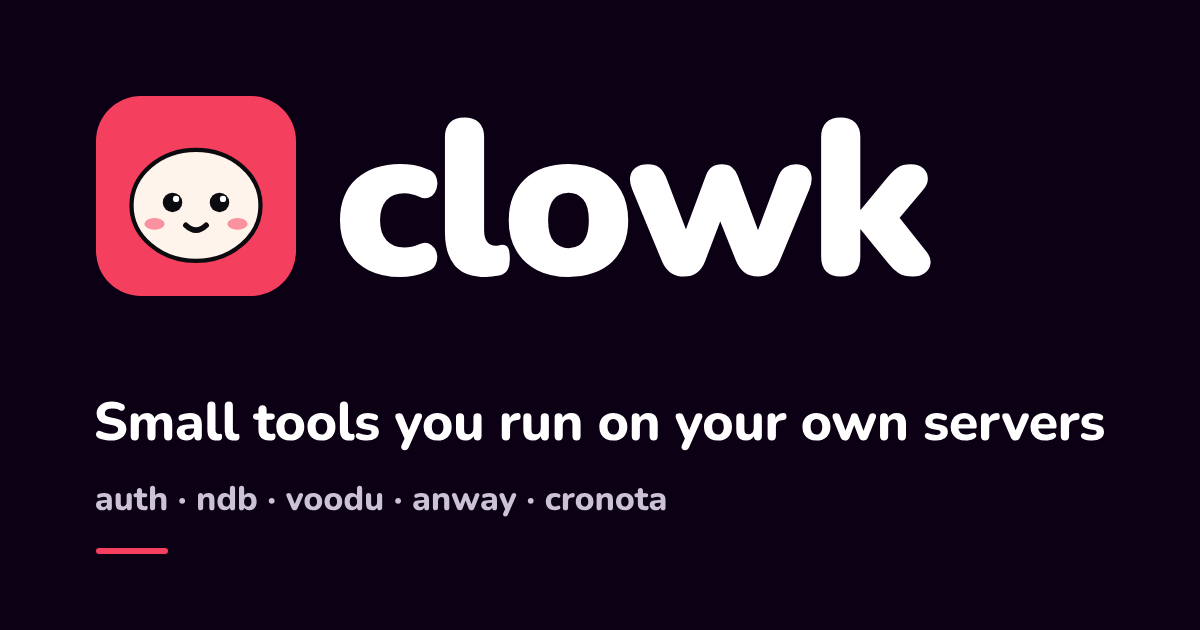
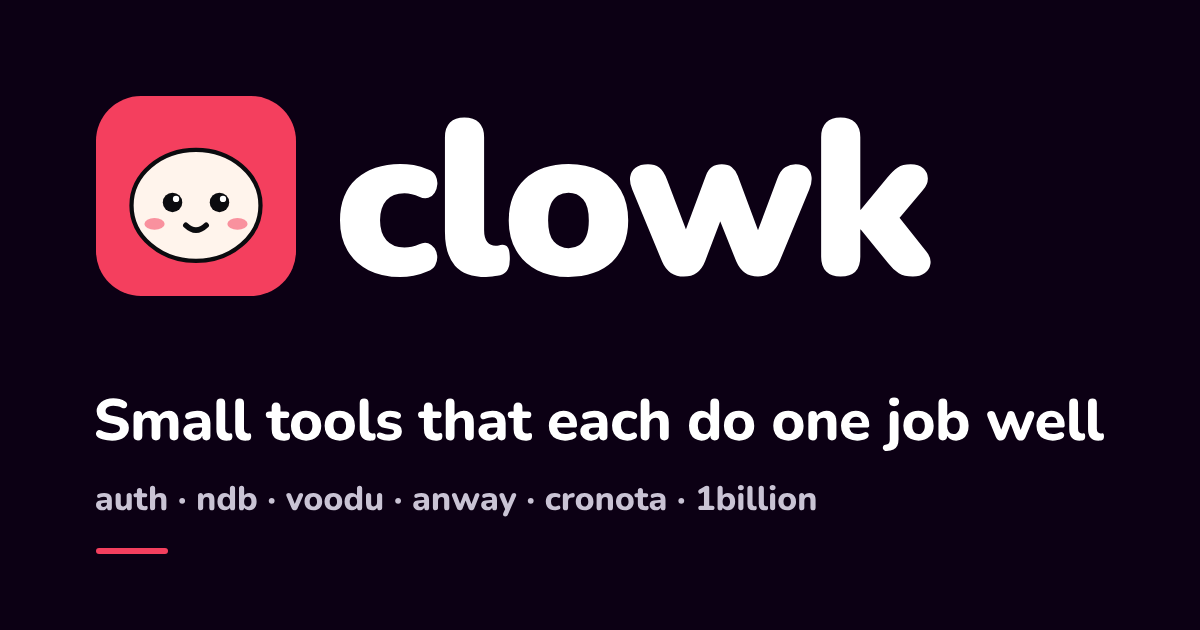
feat(seo): fix metadata, share images, structured data and the sitemap
Product titles and descriptions fit the search result limits. The home
page and the docs get share images, and the share image says the current
tagline. Doc titles name Clowk auth, doc pages carry TechArticle and
breadcrumb data, free products declare an offer, the 404 page is not
indexed and the sitemap has a last modified date per page.

Changed region(s): [[0.0617, 0.6333, 0.925, 0.7238], [0.5858, 0.754, 0.6783, 0.8143]]

diff --git a/lib/products.pt-br.ts b/lib/products.pt-br.ts
@@ -6,7 +6,7 @@ export const ptBr: Record<string, ProductText> = {
   auth: {
     seoTitle: 'auth by Clowk — broker de autenticação para qualquer stack',
     seoDescription:
-      'O Clowk faz o fluxo OAuth com Google, GitHub, X e Apple e devolve um JWT assinado. Sem UI embutida, sem cobrança por MAU. SDKs para React, Next.js, Express, Hono e Rails.',
+      'O Clowk faz o OAuth com Google, GitHub, X e Apple e devolve um JWT assinado. Sem UI embutida, sem cobrança por MAU. SDKs para React, Next.js, Express e Rails.',
     tagline: 'Broker, não provedor. Login que fica fora da sua UI.',
     summary:
       'O Clowk faz o fluxo OAuth com Google, GitHub, X e Apple e entrega um JWT assinado ao seu app. Seu app mantém as próprias telas.',
@@ -79,9 +79,9 @@ end`,
   },
 
   ndb: {
-    seoTitle: 'ndb — a API do Elasticsearch e os filtros do MongoDB sobre NDJSON puro',
+    seoTitle: 'ndb — API do Elasticsearch e filtros do MongoDB em NDJSON',
     seoDescription:
-      'O ndb roda rotas do Elasticsearch e filtros do MongoDB sobre NDJSON puro. Um binário Go, sem JVM, sem cluster, sem schema. SDKs para Go, Ruby, Rails e TypeScript.',
+      'O ndb roda rotas do Elasticsearch e filtros do MongoDB sobre NDJSON. Um binário Go, sem JVM, sem cluster, sem schema. SDKs para Go, Ruby, Rails e TypeScript.',
     tagline: 'A API do Elasticsearch. Os filtros do MongoDB. Um binário Go.',
     summary:
       'O ndb roda as rotas que você conhece do Elasticsearch e a linguagem de consulta que você conhece do MongoDB sobre NDJSON puro. Um daemon, um diretório de dados. Sem JVM, sem cluster, sem schema.',
@@ -140,7 +140,7 @@ end`,
   voodu: {
     seoTitle: 'voodu — PaaS self-hosted com um arquivo HCL e um voodu apply',
     seoDescription:
-      'O voodu é um PaaS self-hosted no estilo Heroku. Um arquivo HCL descreve apps, ingress com TLS e serviços com estado. O voodu apply faz build, envia, roteia e troca a versão por SSH.',
+      'O voodu é um PaaS self-hosted no estilo Heroku. Um arquivo HCL descreve apps, ingress com TLS e serviços com estado; um comando faz o deploy por SSH.',
     tagline: 'PaaS self-hosted. Um arquivo HCL. Um voodu apply.',
     summary:
       'Deploys no estilo Heroku nos seus próprios servidores. A CLI envia o build por SSH: sem commit, sem push, sem bare repo.',
@@ -204,9 +204,9 @@ ingress "acme" "web" {
   },
 
   anway: {
-    seoTitle: 'anway — background jobs para qualquer linguagem, um binário, sem Redis',
+    seoTitle: 'anway — background jobs para qualquer linguagem, sem Redis',
     seoDescription:
-      'O anway é um servidor de background jobs para qualquer linguagem. Um binário com armazenamento em disco embutido, sem Redis. Envie um job do Rails e rode em Go.',
+      'O anway é um servidor de background jobs para qualquer linguagem. Um binário com armazenamento em disco, sem Redis. Envie um job do Rails e rode em Go.',
     tagline: 'Background jobs para qualquer linguagem. Um binário, sem Redis.',
     summary: 'Um app Rails envia email.send, e um worker Go executa. O armazenamento fica em disco, dentro do binário.',
     bullets: [
@@ -278,7 +278,7 @@ return worker.Run(ctx)`,
   '1billion': {
     seoTitle: '1billion — email transacional com servidor de email próprio',
     seoDescription:
-      'O 1billion é o email transacional da Clowk, com servidor de email próprio, DKIM e uma API HTTP. Em desenvolvimento: roda primeiro dentro dos apps da Clowk e abre ao público depois.',
+      'O 1billion é o email transacional da Clowk, com servidor de email próprio, DKIM e API HTTP. Em desenvolvimento: roda primeiro dentro dos apps da Clowk.',
     tagline: 'Email transacional com servidor de email próprio.',
     summary:
       'Envie email do seu app com uma chamada HTTP. O 1billion coloca na fila, assina com DKIM e entrega por SMTP do próprio servidor.',

diff --git a/lib/products.ts b/lib/products.ts
@@ -39,7 +39,7 @@ export const products: Product[] = [
     markFill: true,
     seoTitle: 'auth by Clowk — authentication broker for every stack',
     seoDescription:
-      'Clowk runs the OAuth dance with Google, GitHub, X and Apple and returns a signed JWT. No embedded UI, no per-MAU billing. SDKs for React, Next.js, Express, Hono and Rails.',
+      'Clowk runs OAuth with Google, GitHub, X and Apple and returns a signed JWT. No embedded UI, no per-MAU billing. SDKs for React, Next.js, Express, Hono, Rails.',
     tagline: 'Broker, not provider. Sign-in that stays out of your UI.',
     summary:
       'Clowk runs the OAuth dance with Google, GitHub, X and Apple, and hands your app a signed JWT. Your app keeps its own screens.',
@@ -122,7 +122,7 @@ end`,
     hosting: 'self',
     name: 'ndb',
     mark: '/products/ndb.svg',
-    seoTitle: 'ndb — the Elasticsearch API and MongoDB filters on plain NDJSON',
+    seoTitle: 'ndb — Elasticsearch API and MongoDB filters on NDJSON',
     seoDescription:
       'ndb runs Elasticsearch routes and MongoDB filters on plain NDJSON. One Go binary, no JVM, no cluster, no schema. SDKs for Go, Ruby, Rails and TypeScript.',
     tagline: 'The API of Elasticsearch. The filters of MongoDB. One Go binary.',
@@ -189,9 +189,9 @@ end`,
     hosting: 'self',
     name: 'voodu',
     mark: '/products/voodu.svg',
-    seoTitle: 'voodu — self-hosted PaaS with one HCL file and one voodu apply',
+    seoTitle: 'voodu — self-hosted PaaS, one HCL file, one command',
     seoDescription:
-      'voodu is a self-hosted, Heroku-shaped PaaS. One HCL file describes apps, ingress with TLS and stateful services. voodu apply builds, ships, routes and swaps over SSH.',
+      'voodu is a self-hosted, Heroku-shaped PaaS. One HCL file describes apps, TLS ingress and stateful services; one command builds and ships them over SSH.',
     tagline: 'Self-hosted PaaS. One HCL file. One voodu apply.',
     summary:
       'Heroku-shaped deploys on your own boxes. The CLI streams the build over SSH: no commit, no push, no bare repo.',
@@ -264,7 +264,7 @@ ingress "acme" "web" {
     hosting: 'self',
     name: 'anway',
     mark: '/products/anway.svg',
-    seoTitle: 'anway — background jobs for any language, one binary, no Redis',
+    seoTitle: 'anway — background jobs for any language, no Redis',
     seoDescription:
       'anway is a language-agnostic background job server. One binary with embedded disk storage, no Redis. Push a job from Rails and run it in Go.',
     tagline: 'Background jobs for any language. One binary, no Redis.',
@@ -317,7 +317,7 @@ return worker.Run(ctx)`,
     hosting: 'hosted',
     name: 'cronota',
     mark: '/products/cronota.svg',
-    seoTitle: 'cronota — emit NFS-e on a schedule through the Emissor Nacional',
+    seoTitle: 'cronota — scheduled NFS-e through the Emissor Nacional',
     seoDescription:
       'cronota emits NFS-e through the Emissor Nacional: one-off notes, templates and recurring schedules with approval. A1 certificate encrypted and audited.',
     tagline: 'NFS-e on a schedule, through the Emissor Nacional.',
@@ -354,7 +354,7 @@ return worker.Run(ctx)`,
     mark: '/products/1billion.svg',
     seoTitle: '1billion — transactional email with our own mail server',
     seoDescription:
-      '1billion is transactional email from Clowk, with its own mail server, DKIM and an HTTP API. In development: it runs inside the Clowk apps first and opens to the public later.',
+      '1billion is transactional email from Clowk, with its own mail server, DKIM and an HTTP API. In development: it runs inside the Clowk apps first.',
     tagline: 'Transactional email with our own mail server.',
     summary:
       'Send email from your app with one HTTP call. 1billion queues it, signs it with DKIM and delivers it over SMTP from its own server.',

diff --git a/components/pages/DocsArticle.tsx b/components/pages/DocsArticle.tsx
@@ -2,11 +2,15 @@ import { DocsBody, DocsDescription, DocsPage, DocsTitle } from 'fumadocs-ui/layo
 import { createRelativeLink } from 'fumadocs-ui/mdx';
 import type { Metadata } from 'next';
 import { notFound } from 'next/navigation';
+import JsonLd from '@/components/JsonLd';
 import { getMDXComponents } from '@/components/mdx';
 import { localePath, t, type Locale } from '@/lib/i18n';
+import { SITE_URL } from '@/lib/products';
 import { source } from '@/lib/source';
 
 type Params = Promise<{ slug?: string[] }>;
+
+const DOCS_IMAGE = { url: '/og/auth.png?v=2', width: 1200, height: 630, alt: 'Clowk auth' };
 
 export async function DocsArticle({ params, locale }: { params: Params; locale: Locale }) {
   const page = source.getPage((await params).slug, locale);
@@ -14,9 +18,35 @@ export async function DocsArticle({ params, locale }: { params: Params; locale: 
   if (!page) notFound();
 
   const MDX = page.data.body;
+  const url = `${SITE_URL}${page.url}/`;
+  const docsHome = `${SITE_URL}${localePath(locale, '/docs')}/`;
+
+  const data = {
+    '@context': 'https://schema.org',
+    '@graph': [
+      {
+        '@type': 'TechArticle',
+        headline: page.data.title,
+        description: page.data.description,
+        url,
+        inLanguage: t(locale).htmlLang,
+        about: 'Clowk auth',
+        publisher: { '@type': 'Organization', name: 'Clowk', url: SITE_URL },
+      },
+      {
+        '@type': 'BreadcrumbList',
+        itemListElement: [
+          { '@type': 'ListItem', position: 1, name: 'Clowk', item: SITE_URL },
+          { '@type': 'ListItem', position: 2, name: 'Docs', item: docsHome },
+          { '@type': 'ListItem', position: 3, name: page.data.title, item: url },
+        ],
+      },
+    ],
+  };
 
   return (
     <DocsPage toc={page.data.toc} full={page.data.full} tableOfContent={{ style: 'clerk' }} breadcrumb={{ enabled: false }}>
+      <JsonLd data={data} />
       <DocsTitle>{page.data.title}</DocsTitle>
       <DocsDescription>{page.data.description}</DocsDescription>
 
@@ -39,7 +69,7 @@ export async function docsMetadata(params: Params, locale: Locale): Promise<Meta
   const english = source.getPage(page.slugs, 'en');
   const path = `${english?.url ?? page.url}/`;
   const url = `${page.url}/`;
-  const title = `${page.data.title} | Clowk`;
+  const title = page.slugs.length ? `${page.data.title} · ${t(locale).docs.titleSuffix}` : t(locale).docs.titleSuffix;
   const description = page.data.description;
 
   return {
@@ -49,7 +79,7 @@ export async function docsMetadata(params: Params, locale: Locale): Promise<Meta
       canonical: url,
       languages: { en: path, 'pt-BR': localePath('pt-br', path), 'x-default': path },
     },
-    openGraph: { title, description, url, type: 'article', siteName: 'Clowk', locale: t(locale).ogLocale },
-    twitter: { card: 'summary_large_image', title, description },
+    openGraph: { title, description, url, type: 'article', siteName: 'Clowk', locale: t(locale).ogLocale, images: [DOCS_IMAGE] },
+    twitter: { card: 'summary_large_image', title, description, images: [DOCS_IMAGE.url] },
   };
 }

diff --git a/app/sitemap.ts b/app/sitemap.ts
@@ -1,3 +1,4 @@
+import { execFileSync } from 'node:child_process';
 import type { MetadataRoute } from 'next';
 import { localePath, locales } from '@/lib/i18n';
 import { products, SITE_URL } from '@/lib/products';
@@ -7,11 +8,23 @@ export const dynamic = 'force-static';
 
 type Entry = MetadataRoute.Sitemap[number];
 
-function entries(path: string, priority: number, changeFrequency: Entry['changeFrequency']): Entry[] {
+/** The date of the last commit that touched these files, or now when git has no answer. */
+function lastModified(...files: string[]) {
+  try {
+    const date = execFileSync('git', ['log', '-1', '--format=%cI', '--', ...files], { encoding: 'utf8' }).trim();
+
+    return date ? new Date(date) : new Date();
+  } catch {
+    return new Date();
+  }
+}
+
+function entries(path: string, priority: number, changeFrequency: Entry['changeFrequency'], modified: Date): Entry[] {
   const languages = { en: `${SITE_URL}${path}`, 'pt-BR': `${SITE_URL}${localePath('pt-br', path)}` };
 
   return locales.map(locale => ({
     url: `${SITE_URL}${localePath(locale, path)}`,
+    lastModified: modified,
     changeFrequency,
     priority,
     alternates: { languages },
@@ -19,8 +32,16 @@ function entries(path: string, priority: number, changeFrequency: Entry['changeF
 }
 
 export default function sitemap(): MetadataRoute.Sitemap {
-  const pages = products.flatMap(product => entries(`/${product.slug}/`, 0.9, 'weekly'));
-  const docs = source.getPages('en').flatMap(page => entries(`${page.url}/`, 0.5, 'monthly'));
+  const site = lastModified('lib', 'components', 'app');
 
-  return [...entries('/', 1, 'weekly'), ...entries('/terms/', 0.3, 'yearly'), ...pages, ...docs];
+  const pages = products.flatMap(product => entries(`/${product.slug}/`, 0.9, 'weekly', site));
+
+  const docs = source.getPages('en').flatMap(page => {
+    const file = `content/docs/${page.path}`;
+    const translated = file.replace(/\.mdx$/, '.pt-br.mdx');
+
+    return entries(`${page.url}/`, 0.6, 'monthly', lastModified(file, translated));
+  });
+
+  return [...entries('/', 1, 'weekly', site), ...entries('/terms/', 0.3, 'yearly', lastModified('components/terms')), ...pages, ...docs];
 }

diff --git a/lib/i18n/pt-br.ts b/lib/i18n/pt-br.ts
@@ -10,7 +10,7 @@ export const ptBr: Dictionary = {
   site: {
     title: 'Clowk — Ferramentas pequenas que fazem uma coisa bem feita',
     description:
-      'A Clowk faz ferramentas pequenas: auth para login, ndb para busca em NDJSON, voodu para deploys, anway para jobs em background, cronota para NFS-e e 1billion para email.',
+      'A Clowk faz ferramentas pequenas: auth para login, ndb para busca em NDJSON, voodu para deploys, anway para jobs, cronota para NFS-e e 1billion para email.',
   },
 
   nav: {
@@ -135,6 +135,7 @@ export const ptBr: Dictionary = {
   },
 
   docs: {
+    titleSuffix: 'Docs do Clowk auth',
     menu: 'Menu',
     openSidebar: 'Abrir menu lateral',
     closeSidebar: 'Fechar menu lateral',
@@ -149,6 +150,6 @@ export const ptBr: Dictionary = {
 
   terms: {
     title: 'Termos de Serviço — Clowk',
-    description: 'Termos de serviço da Clowk, política de uso aceitável e informações legais.',
+    description: 'Os termos de serviço da Clowk: o que o serviço auth faz, sua conta, uso aceitável, proteção de dados, pagamentos e as informações legais.',
   },
 };

diff --git a/components/pages/HomePage.tsx b/components/pages/HomePage.tsx
@@ -10,6 +10,8 @@ import { alternates, localePath, t, type Locale } from '@/lib/i18n';
 import { SITE_URL } from '@/lib/products';
 import { localizedProducts } from '@/lib/localized';
 
+const OG_IMAGE = { url: '/og-image.png?v=3', width: 1200, height: 630, alt: 'Clowk' };
+
 export function homeMetadata(locale: Locale): Metadata {
   const { title, description } = t(locale).site;
 
@@ -17,8 +19,8 @@ export function homeMetadata(locale: Locale): Metadata {
     title: { absolute: title },
     description,
     alternates: alternates(locale, '/'),
-    openGraph: { title, description, url: localePath(locale, '/'), locale: t(locale).ogLocale },
-    twitter: { title, description },
+    openGraph: { title, description, url: localePath(locale, '/'), locale: t(locale).ogLocale, type: 'website', images: [OG_IMAGE] },
+    twitter: { card: 'summary_large_image', title, description, images: [OG_IMAGE.url] },
   };
 }
 

diff --git a/components/pages/TermsPage.tsx b/components/pages/TermsPage.tsx
@@ -3,12 +3,17 @@ import Footer from '@/components/Footer';
 import Header from '@/components/Header';
 import TermsEn from '@/components/terms/TermsEn';
 import TermsPt from '@/components/terms/TermsPt';
-import { alternates, t, type Locale } from '@/lib/i18n';
+import { alternates, localePath, t, type Locale } from '@/lib/i18n';
 
 export function termsMetadata(locale: Locale): Metadata {
   const { title, description } = t(locale).terms;
 
-  return { title: { absolute: title }, description, alternates: alternates(locale, '/terms/') };
+  return {
+    title: { absolute: title },
+    description,
+    alternates: alternates(locale, '/terms/'),
+    openGraph: { title, description, url: localePath(locale, '/terms/'), locale: t(locale).ogLocale },
+  };
 }
 
 export default function TermsPage({ locale }: { locale: Locale }) {

diff --git a/components/product/ProductPage.tsx b/components/product/ProductPage.tsx
@@ -179,6 +179,10 @@ function docsCta(product: Product, locale: Locale) {
   return `${text.readDocs} ${product.docsUrl.startsWith('/') ? '→' : '↗'}`;
 }
 
+function isFree(product: Product) {
+  return product.hosting === 'self' || product.slug === 'auth';
+}
+
 function structuredData(product: Product, locale: Locale) {
   const url = `${SITE_URL}${localePath(locale, `/${product.slug}`)}`;
 
@@ -194,6 +198,7 @@ function structuredData(product: Product, locale: Locale) {
         applicationCategory: product.category,
         operatingSystem: product.platform ?? 'Linux, macOS',
         publisher: { '@type': 'Organization', name: 'Clowk', url: SITE_URL },
+        ...(isFree(product) && { offers: { '@type': 'Offer', price: '0', priceCurrency: 'USD' } }),
       },
       {
         '@type': 'FAQPage',

diff --git a/lib/i18n/en.ts b/lib/i18n/en.ts
@@ -133,6 +133,7 @@ export const en = {
   },
 
   docs: {
+    titleSuffix: 'Clowk auth docs',
     menu: 'Menu',
     openSidebar: 'Open sidebar',
     closeSidebar: 'Close sidebar',
@@ -147,7 +148,7 @@ export const en = {
 
   terms: {
     title: 'Terms of Service — Clowk',
-    description: 'Clowk terms of service, acceptable use policy, and legal information.',
+    description: 'The Clowk terms of service: what the auth service does, your account, acceptable use, data protection, payments and the legal information.',
   },
 };
 

diff --git a/app/not-found.tsx b/app/not-found.tsx
@@ -1,5 +1,8 @@
+import type { Metadata } from 'next';
 import Image from 'next/image';
 import Link from 'next/link';
+
+export const metadata: Metadata = { title: 'Page not found', robots: { index: false, follow: true } };
 
 export default function NotFound() {
   return (

diff --git a/app/layout.tsx b/app/layout.tsx
@@ -9,7 +9,7 @@ const dmSans = DM_Sans({
 });
 
 const SITE_URL = 'https://clowk.in';
-const OG_IMAGE = `${SITE_URL}/og-image.png?v=2`;
+const OG_IMAGE = `${SITE_URL}/og-image.png?v=3`;
 
 const TITLE = 'Clowk — Small tools that each do one job well';
 const DESCRIPTION =

diff --git a/brand/tools/outline_wordmark.py b/brand/tools/outline_wordmark.py
@@ -22,8 +22,8 @@ from fontTools.ttLib import TTFont
 
 TEXTS = {
     'wordmark': ('black', 'clowk', -0.03),
-    'tagline': ('extra', 'Small tools you run on your own servers', -0.01),
-    'products': ('extra', 'auth · ndb · voodu · anway · cronota', 0),
+    'tagline': ('extra', 'Small tools that each do one job well', -0.01),
+    'products': ('extra', 'auth · ndb · voodu · anway · cronota · 1billion', 0),
 }
 
 
